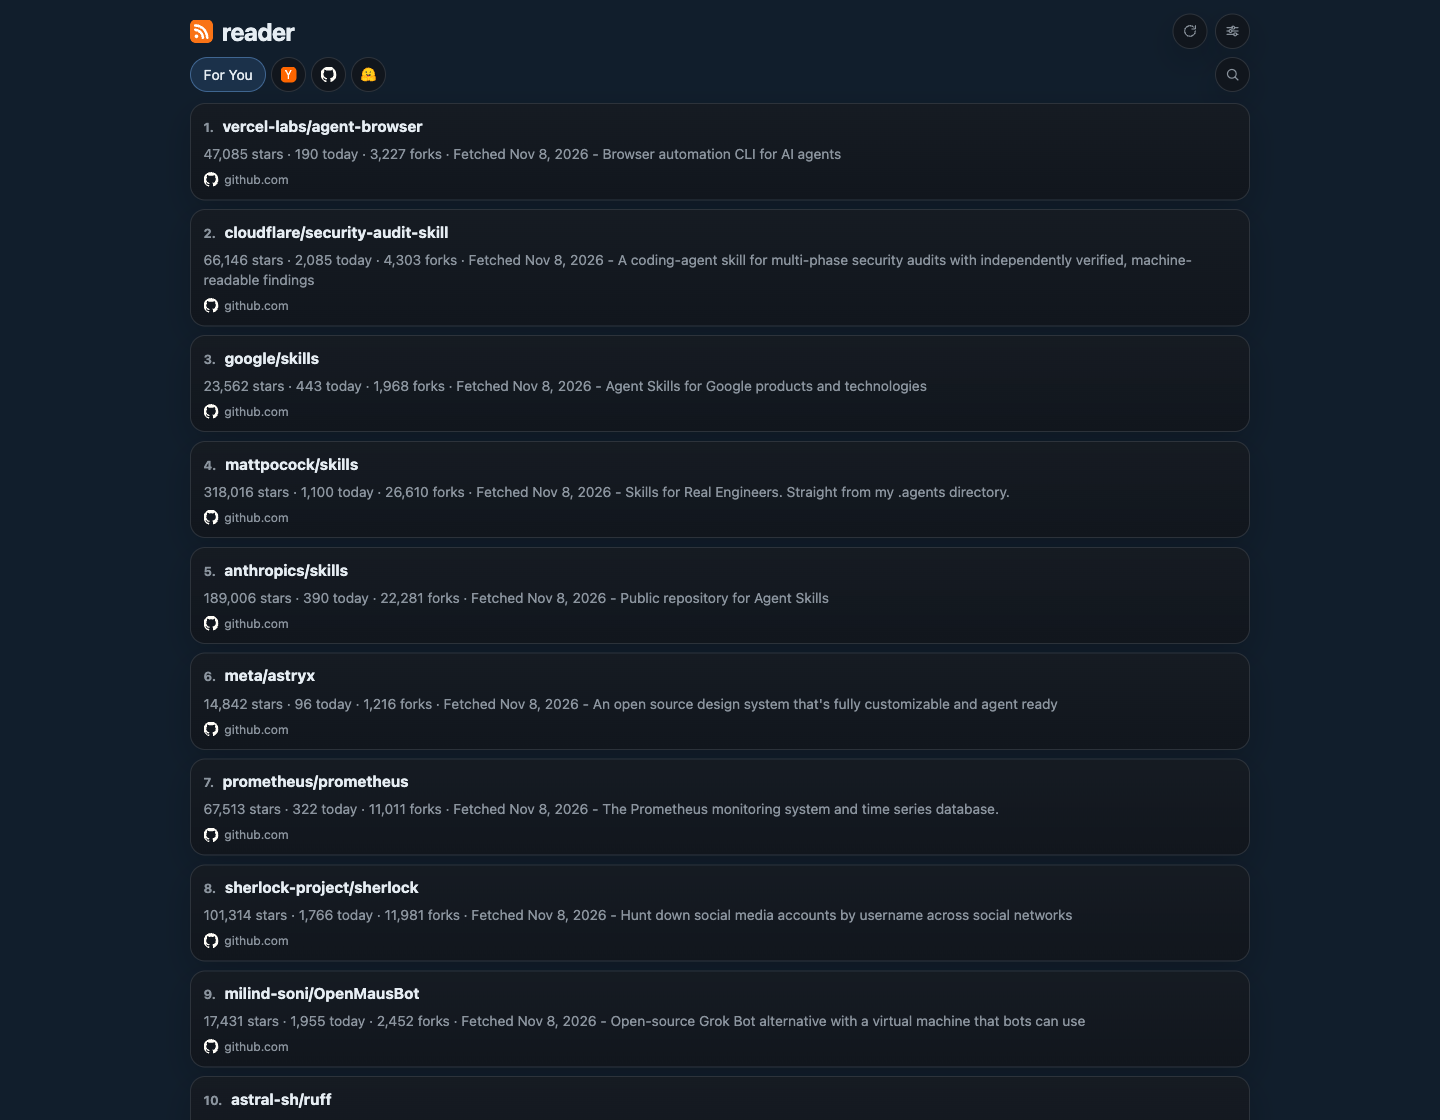
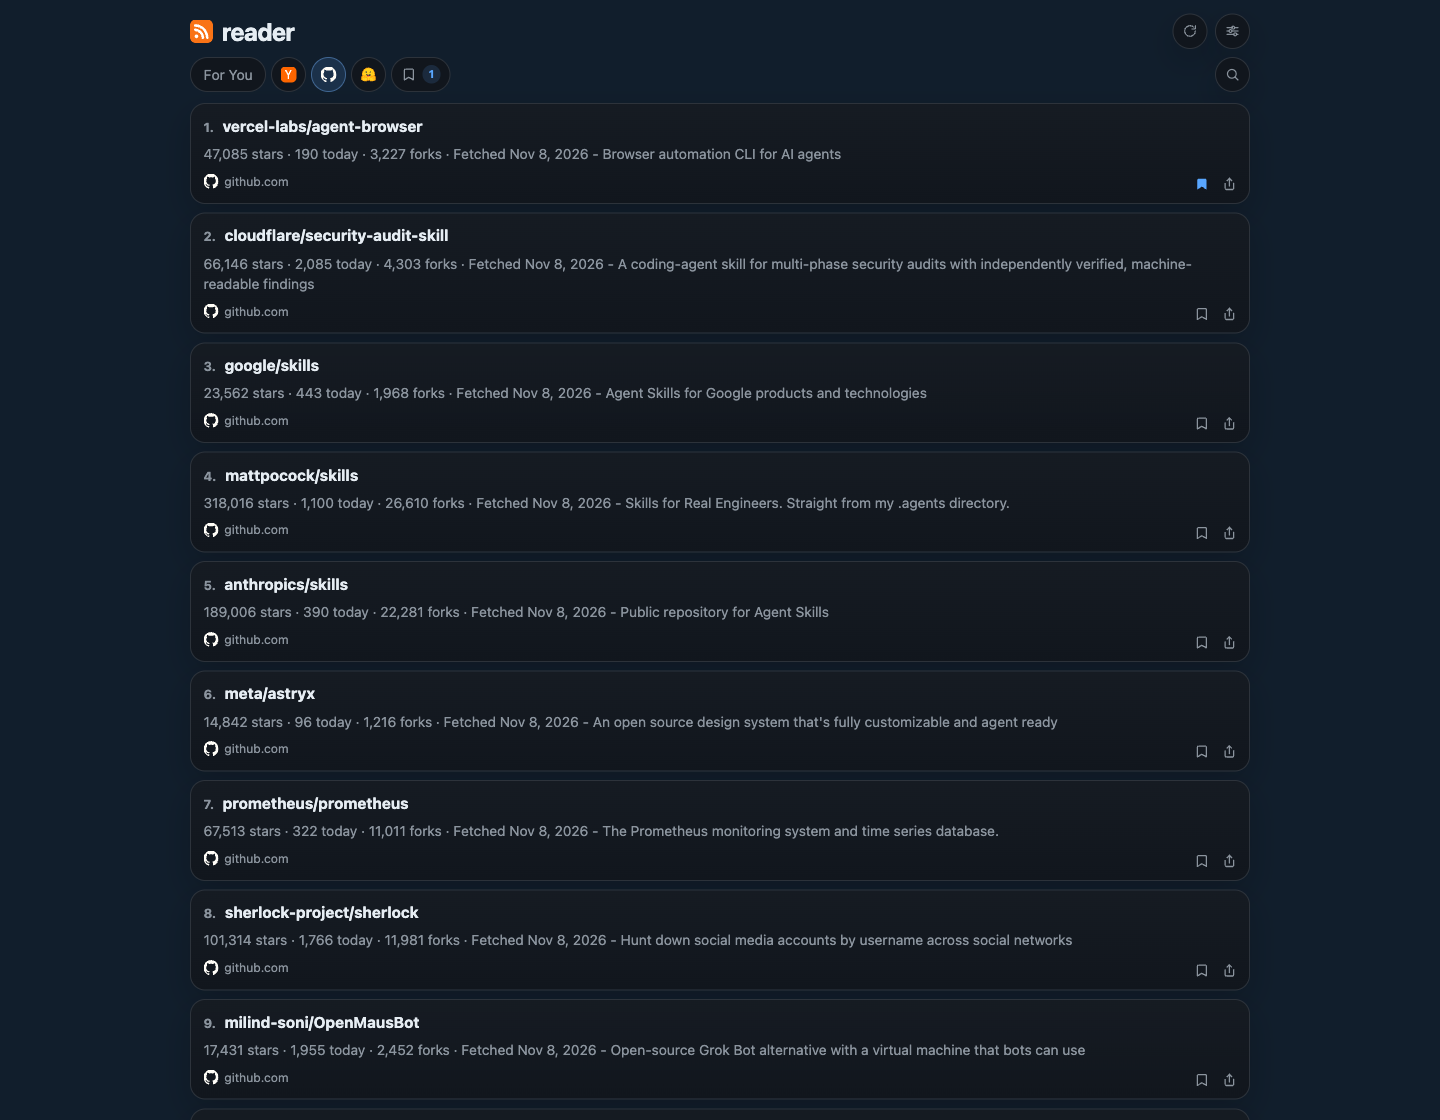
feat: add tabbed reader settings and refresh screenshots
- Group settings into Appearance, Reading, and Sources tabs; move AI personalization into Reading, rename the preview section, and update the dialog copy/validation.\n- Add icons to View more, Cancel, and Save; preserve the View more icon during loading.\n- Refresh README and manifest screenshots with bookmarks enabled and preview disabled; bump asset/cache versions.\n\nCo-Authored-By: Claude Code <noreply@anthropic.com>

diff --git a/core/render.ts b/core/render.ts
@@ -150,12 +150,12 @@ export function renderIndexPage(data: PageData): string {
     <meta name="apple-mobile-web-app-capable" content="yes" />
     <meta name="apple-mobile-web-app-status-bar-style" content="default" />
     <meta name="apple-mobile-web-app-title" content="reader" />
-    <link rel="manifest" href="/site.webmanifest?v=13" />
+    <link rel="manifest" href="/site.webmanifest?v=14" />
     <link rel="icon" href="/favicon.svg?v=8" sizes="any" type="image/svg+xml" />
     <link rel="shortcut icon" href="/favicon.svg?v=8" type="image/svg+xml" />
     <link rel="apple-touch-icon" href="/apple-touch-icon.png?v=8" />
-    <link rel="stylesheet" href="/static/style.css?v=72" />
-    <script src="/static/app.js?v=68" defer></script>
+    <link rel="stylesheet" href="/static/style.css?v=73" />
+    <script src="/static/app.js?v=71" defer></script>
   </head>
   <body data-app-version="${escapeHtml(data.appVersion)}">
     <header class="shell page-header">
@@ -247,7 +247,14 @@ export function renderIndexPage(data: PageData): string {
             </svg>
           </button>
         </div>
-        <p class="config-dialog-copy">Adjust the reader appearance and choose which sources appear in the feed.</p>
+        <p class="config-dialog-copy">Adjust the reader's appearance, reading, personalization, and sources.</p>
+        <div class="config-tabs" role="tablist" aria-label="Reader settings sections">
+          <button class="config-tab" id="config-tab-appearance" type="button" role="tab" aria-selected="true" aria-controls="config-panel-appearance" data-config-tab="appearance">Appearance</button>
+          <button class="config-tab" id="config-tab-reading" type="button" role="tab" aria-selected="false" aria-controls="config-panel-reading" data-config-tab="reading" tabindex="-1">Reading</button>
+          <button class="config-tab" id="config-tab-sources" type="button" role="tab" aria-selected="false" aria-controls="config-panel-sources" data-config-tab="sources" tabindex="-1">Sources</button>
+        </div>
+        <div class="config-tab-panels">
+        <div class="config-tab-panel" id="config-panel-appearance" role="tabpanel" aria-labelledby="config-tab-appearance" data-config-panel="appearance">
         <div class="config-section-row">
         <section class="config-section" aria-labelledby="config-theme-title">
           <div class="config-section-header">
@@ -311,9 +318,11 @@ export function renderIndexPage(data: PageData): string {
           </div>
         </section>
         </div>
+        </div>
+        <div class="config-tab-panel" id="config-panel-reading" role="tabpanel" aria-labelledby="config-tab-reading" data-config-panel="reading" hidden>
         <section class="config-section" data-article-preview-section aria-labelledby="config-reading-title">
           <div class="config-section-header">
-            <h3 id="config-reading-title" class="config-section-title">Reading</h3>
+            <h3 id="config-reading-title" class="config-section-title">Article preview</h3>
             <p class="config-section-copy">Read articles in a reader view without leaving the feed.</p>
           </div>
           <div class="config-options">
@@ -370,6 +379,8 @@ export function renderIndexPage(data: PageData): string {
           </div>
           <textarea class="interests-input" data-interests-input rows="3" maxlength="300" placeholder="fullstack development, software engineering, computer science, AI, machine learning, LLMs"></textarea>
         </section>
+        </div>
+        <div class="config-tab-panel" id="config-panel-sources" role="tabpanel" aria-labelledby="config-tab-sources" data-config-panel="sources" hidden>
         <section class="config-section" aria-labelledby="config-sources-title">
           <div class="config-section-header">
             <h3 id="config-sources-title" class="config-section-title">Sources</h3>
@@ -399,11 +410,24 @@ export function renderIndexPage(data: PageData): string {
             </label>
           </div>
         </section>
+        </div>
+        </div>
         <div class="config-dialog-footer-row">
           <p class="config-dialog-meta">Build ${escapeHtml(data.appVersion)}</p>
           <div class="config-dialog-actions">
-            <button class="dialog-button" type="button" data-source-config-cancel>Cancel</button>
-            <button class="dialog-button dialog-button-primary" type="button" data-source-config-save>Save</button>
+            <button class="dialog-button" type="button" data-source-config-cancel>
+              <svg class="theme-icon" viewBox="0 0 24 24" aria-hidden="true">
+                <path d="M6 6l12 12" fill="none" stroke="currentColor" stroke-linecap="round" stroke-linejoin="round" stroke-width="1.8"/>
+                <path d="M18 6L6 18" fill="none" stroke="currentColor" stroke-linecap="round" stroke-linejoin="round" stroke-width="1.8"/>
+              </svg>
+              <span>Cancel</span>
+            </button>
+            <button class="dialog-button dialog-button-primary" type="button" data-source-config-save>
+              <svg class="theme-icon" viewBox="0 0 24 24" aria-hidden="true">
+                <path d="M5 12.5l4.5 4.5L19 7.5" fill="none" stroke="currentColor" stroke-linecap="round" stroke-linejoin="round" stroke-width="1.8"/>
+              </svg>
+              <span>Save</span>
+            </button>
           </div>
         </div>
       </form>
@@ -420,9 +444,9 @@ export function renderIndexPage(data: PageData): string {
             </svg>
           </button>
         </div>
-        <img class="install-dialog-screenshot" data-install-screenshot-mobile src="/manifest-assets/screenshot-mobile.png?v=3" alt="reader running as an installed app on mobile" width="430" height="932" loading="lazy" />
-        <img class="install-dialog-screenshot install-dialog-screenshot-tablet is-hidden" data-install-screenshot-tablet src="/manifest-assets/screenshot-tablet.png?v=2" alt="reader running as an installed app on iPad" width="820" height="1180" loading="lazy" />
-        <img class="install-dialog-screenshot install-dialog-screenshot-desktop is-hidden" data-install-screenshot-desktop src="/manifest-assets/screenshot-wide.png?v=2" alt="reader running as an installed app on desktop" width="1440" height="1120" loading="lazy" />
+        <img class="install-dialog-screenshot" data-install-screenshot-mobile src="/manifest-assets/screenshot-mobile.png?v=4" alt="reader running as an installed app on mobile" width="430" height="932" loading="lazy" />
+        <img class="install-dialog-screenshot install-dialog-screenshot-tablet is-hidden" data-install-screenshot-tablet src="/manifest-assets/screenshot-tablet.png?v=3" alt="reader running as an installed app on iPad" width="820" height="1180" loading="lazy" />
+        <img class="install-dialog-screenshot install-dialog-screenshot-desktop is-hidden" data-install-screenshot-desktop src="/manifest-assets/screenshot-wide.png?v=3" alt="reader running as an installed app on desktop" width="1440" height="1120" loading="lazy" />
         <p class="config-dialog-copy">Add reader to your home screen for a faster, full-screen experience with offline access to your last feed.</p>
         <ol class="install-steps is-hidden" data-install-steps>
           <li>
@@ -469,7 +493,12 @@ ${errorsBlock}
       <div class="empty-state${emptyHiddenClass}" data-empty-state>${escapeHtml(data.emptyMessage)}</div>
 
       <div class="footer-actions${footerHiddenClass}" data-footer-actions>
-        <button class="view-more" type="button" data-view-more${viewMoreHidden}>View more</button>
+        <button class="view-more" type="button" data-view-more${viewMoreHidden}>
+          <span data-view-more-label>View more</span>
+          <svg class="theme-icon" viewBox="0 0 24 24" aria-hidden="true">
+            <path d="M6 9.5l6 6 6-6" fill="none" stroke="currentColor" stroke-linecap="round" stroke-linejoin="round" stroke-width="1.8"/>
+          </svg>
+        </button>
       </div>
       <footer class="site-footer">
         <p><span class="footer-copyright">© ${data.currentYear}</span><span class="footer-sep">·</span><a class="footer-link" href="https://github.com/boringcode-dev/feedreader-edge" target="_blank" rel="noreferrer"><img class="footer-github-mark" src="/static/source-icons/github.svg" alt="" aria-hidden="true" /><span>GitHub</span></a></p>

diff --git a/web-static/static/app.js b/web-static/static/app.js
@@ -24,6 +24,9 @@
   const configOptions = Array.from(
     document.querySelectorAll("[data-source-option]"),
   );
+  const configTabs = Array.from(
+    document.querySelectorAll("[data-config-tab]"),
+  );
   const densityOptions = Array.from(
     document.querySelectorAll("[data-density-option]"),
   );
@@ -91,6 +94,7 @@
   const emptyState = document.querySelector("[data-empty-state]");
   const footerActions = document.querySelector("[data-footer-actions]");
   const viewMoreButton = document.querySelector("[data-view-more]");
+  const viewMoreLabel = document.querySelector("[data-view-more-label]");
   const searchToggle = document.querySelector("[data-search-toggle]");
   const searchForm = document.querySelector("[data-search-form]");
   const searchInput = document.querySelector("[data-search-input]");
@@ -782,6 +786,21 @@
     });
   }
 
+  function activateConfigTab(tabKey, { focus = false } = {}) {
+    const selectedTab = configTabs.find(
+      (tab) => tab.dataset.configTab === tabKey,
+    );
+    if (!selectedTab) return;
+    for (const tab of configTabs) {
+      const selected = tab === selectedTab;
+      tab.setAttribute("aria-selected", String(selected));
+      tab.tabIndex = selected ? 0 : -1;
+      const panel = document.getElementById(tab.getAttribute("aria-controls"));
+      if (panel) panel.hidden = !selected;
+    }
+    if (focus) selectedTab.focus();
+  }
+
   function syncPersonalizationOptions() {
     if (aiPersonalizationToggle) {
       aiPersonalizationToggle.checked = aiPersonalizationEnabled;
@@ -874,7 +893,9 @@
     const loadingMore = feedLoading && feedLoadingMode === "append";
     viewMoreButton.hidden = !showButton;
     viewMoreButton.disabled = !showButton || refreshInFlight || feedLoading;
-    viewMoreButton.textContent = loadingMore ? "Loading…" : "View more";
+    if (viewMoreLabel) {
+      viewMoreLabel.textContent = loadingMore ? "Loading…" : "View more";
+    }
   };
 
   const renderFeedBody = () => {
@@ -2020,6 +2041,7 @@
   ) {
     const normalizedSources = normalizeSelectedSources(nextSources);
     if (normalizedSources.length === 0) {
+      activateConfigTab("sources", { focus: true });
       showToast("Select at least one source", "error");
       return;
     }
@@ -2027,6 +2049,7 @@
       .trim()
       .slice(0, interestsMaxLength);
     if (nextPersonalizationEnabled && !normalizedInterests) {
+      activateConfigTab("reading", { focus: true });
       showToast("Add a few interests to enable For You", "error");
       return;
     }
@@ -2161,6 +2184,30 @@
       }
     });
   }
+
+  configTabs.forEach((tab, index) => {
+    tab.addEventListener("click", () => {
+      activateConfigTab(tab.dataset.configTab);
+    });
+    tab.addEventListener("keydown", (event) => {
+      let nextIndex;
+      if (event.key === "ArrowRight") {
+        nextIndex = (index + 1) % configTabs.length;
+      } else if (event.key === "ArrowLeft") {
+        nextIndex = (index - 1 + configTabs.length) % configTabs.length;
+      } else if (event.key === "Home") {
+        nextIndex = 0;
+      } else if (event.key === "End") {
+        nextIndex = configTabs.length - 1;
+      } else {
+        return;
+      }
+      event.preventDefault();
+      activateConfigTab(configTabs[nextIndex].dataset.configTab, {
+        focus: true,
+      });
+    });
+  });
 
   if (configDialog) {
     configDialog.addEventListener("cancel", (event) => {
@@ -2475,6 +2522,7 @@
   syncArticlePreviewOption();
   applyArticlePreviewEnabledState();
   syncBookmarksOption();
+  activateConfigTab("appearance");
   applyVisitedLinkState();
   applyBookmarkState();
   applyPreviewActiveCardState();

diff --git a/web-static/static/style.css b/web-static/static/style.css
@@ -444,6 +444,60 @@ button {
   line-height: 1.45;
 }
 
+.config-tabs {
+  display: flex;
+  gap: 0.25rem;
+  padding: 0.25rem;
+  overflow-x: auto;
+  border: 1px solid var(--border);
+  border-radius: 0.8rem;
+  background: var(--surface);
+  scrollbar-width: none;
+}
+
+.config-tabs::-webkit-scrollbar {
+  display: none;
+}
+
+.config-tab {
+  flex: 1 1 0;
+  min-width: max-content;
+  padding: 0.45rem 0.55rem;
+  border: 0;
+  border-radius: 0.55rem;
+  background: transparent;
+  color: var(--muted);
+  font: inherit;
+  font-size: 0.8rem;
+  font-weight: 600;
+  white-space: nowrap;
+  cursor: pointer;
+}
+
+.config-tab:hover {
+  color: var(--text);
+}
+
+.config-tab[aria-selected='true'] {
+  background: var(--accent-soft);
+  color: var(--text);
+}
+
+.config-tab:focus-visible {
+  outline: 2px solid var(--accent);
+  outline-offset: 1px;
+}
+
+.config-tab-panel {
+  display: flex;
+  flex-direction: column;
+  gap: 1rem;
+}
+
+.config-tab-panel[hidden] {
+  display: none;
+}
+
 .install-dialog-screenshot {
   display: block;
   width: 100%;
@@ -1668,6 +1722,7 @@ body.is-dialog-open {
   display: inline-flex;
   align-items: center;
   justify-content: center;
+  gap: 0.35rem;
   height: var(--control-height);
   min-height: var(--control-height);
   padding: 0 1rem;

diff --git a/web-static/service-worker.js b/web-static/service-worker.js
@@ -1,14 +1,14 @@
-const SHELL_CACHE = "reader-shell-v70";
+const SHELL_CACHE = "reader-shell-v74";
 const ITEMS_CACHE = "reader-items-v24";
 const CORE_ASSETS = [
   "/",
-  "/static/style.css?v=72",
-  "/static/app.js?v=68",
+  "/static/style.css?v=73",
+  "/static/app.js?v=71",
   "/static/source-icons/hackernews.svg",
   "/static/source-icons/github.svg",
   "/static/source-icons/huggingface.svg",
   "/favicon.svg?v=8",
-  "/site.webmanifest?v=13",
+  "/site.webmanifest?v=14",
   "/apple-touch-icon.png?v=8",
   "/icon-192.png?v=8",
   "/icon-512.png?v=8",

diff --git a/docs/RUNBOOK.md b/docs/RUNBOOK.md
@@ -100,9 +100,9 @@ Before considering any `core/render.ts` change done:
 3. Load `http://127.0.0.1:8788` and verify:
    - header actions render correctly
    - source filters and search controls render correctly
-   - the reader settings dialog opens and closes
+   - the reader settings dialog opens and closes, its Appearance/Reading/Sources tabs switch via click and arrow keys, and Cancel/Save show their icons
    - empty-state and error-banner markup still look sane
-   - `View more` visibility matches whether another page exists
+   - `View more` has its icon and its visibility matches whether another page exists
    - enabling article preview, clicking a card, and confirming the panel renders rich text links, images/captions (without contributor avatars), tables, reading metadata, and (for Hacker News) the Comments action; `Open source` points at the article; the active card is highlighted and previous/next move through the visible list
    - card host-row shortcuts: Hacker News cards show Comments, Open source appears only while preview is enabled, and both open their targets without opening the preview
    - Share uses the native share sheet on supporting browsers and copies the article link otherwise; verify it from a card host row, the wide-screen preview header (immediately after Save), and the mobile preview actions popup

diff --git a/README.md b/README.md
@@ -328,13 +328,11 @@ Presentation-layer note:
 ### Reader settings dialog
 
 - the configure button opens a `Reader settings` dialog
-- the dialog sections are ordered as:
-  - `Theme`
-  - `UI density`
-  - `Reading`
-  - `Bookmarks`
-  - `AI personalization`
-  - `Sources`
+- settings are grouped into tabs:
+  - `Appearance` — Theme and UI density
+  - `Reading` — Article preview, bookmarks, and AI personalization
+  - `Sources` — visible sources
+- tabs support click, arrow keys, Home, and End; validation jumps to `Sources` or `Reading` when that tab needs attention
 - theme and density options are shown in a 2-column layout to reduce dialog height
 - clicking the dialog backdrop closes it
 - background page scrolling is locked while the dialog is open
